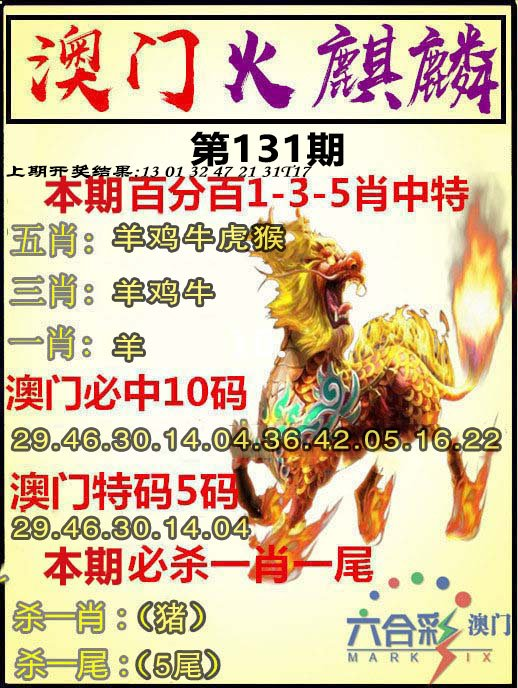
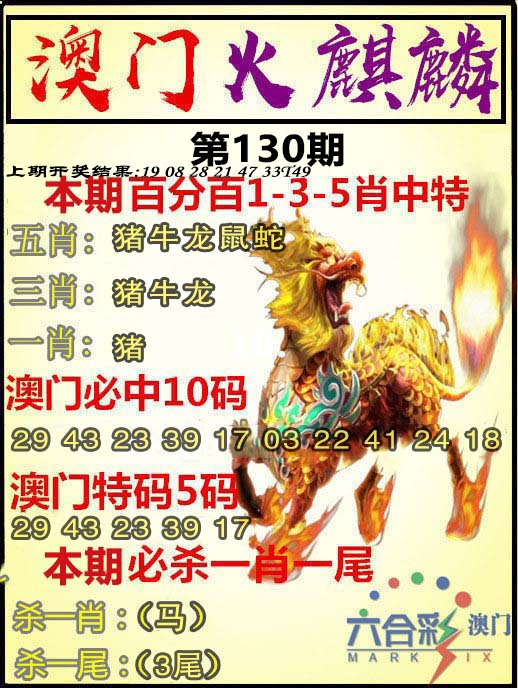
Update:  2024.05.10 07:21:14

diff --git a/Script/Src/xjw/xj18m.js b/Script/Src/xjw/xj18m.js
@@ -29,7 +29,7 @@ document.writeln("</style>");
 document.writeln("");
 document.writeln("<body>");
 document.writeln("  ");
-document.writeln("<img src=\"https://tk2.zaojiao365.net:4949/col/130/amzy.jpg\" alt=\"\" width=\"100%\">");
+document.writeln("<img src=\"https://tk2.zaojiao365.net:4949/col/131/amzy.jpg\" alt=\"\" width=\"100%\">");
 document.writeln("");
 document.writeln("  <table border=1 width=100% bgcolor=#ffffff><tbody>");
 document.writeln("<td style=\'border:10px double #8bafaf\' bgcolor=#8bafaf height=50><p align=center>");
@@ -46,6 +46,7 @@ document.writeln("");
 
 
 
+
 document.writeln("  <!--开始-->  ");
 document.writeln("    	<tr>");
 document.writeln("      <td height=38 >");
@@ -54,20 +55,12 @@ document.writeln("");
 document.writeln("		<font face=\'微软雅黑\'>");
 document.writeln("		<b>");
 document.writeln("");
-document.writeln("		<font color=\"#0000FF\">130期【玄机特码诗】猜透必中开（？00）</font><br>");
-document.writeln("①解特九肖：蛇兔羊鸡猪牛马猴狗<br>");
-document.writeln("②解特五肖：蛇兔羊鸡猪<br>");
-document.writeln("③解特18码：24.36.26.14.34.46.08.32.42.18.04.28.35.47.09.33.19.31</b></font></p></td>");
+document.writeln("		<font color=\"#0000FF\">131期【玄机特码诗】猜透必中开（？00）</font><br>");
+document.writeln("①解特九肖：蛇鼠兔羊虎猪狗马牛<br>");
+document.writeln("②解特五肖：蛇鼠兔羊虎<br>");
+document.writeln("③解特18码：24.36.29.41.14.26.10.22.27.39.18.30.19.31.11.23.16.28</b></font></p></td>");
 document.writeln("    </tr>     ");
 document.writeln("     <!--结束-->");
-document.writeln("	");
-document.writeln("	");
-document.writeln("");
-
-
-
-
-
 
 
 
